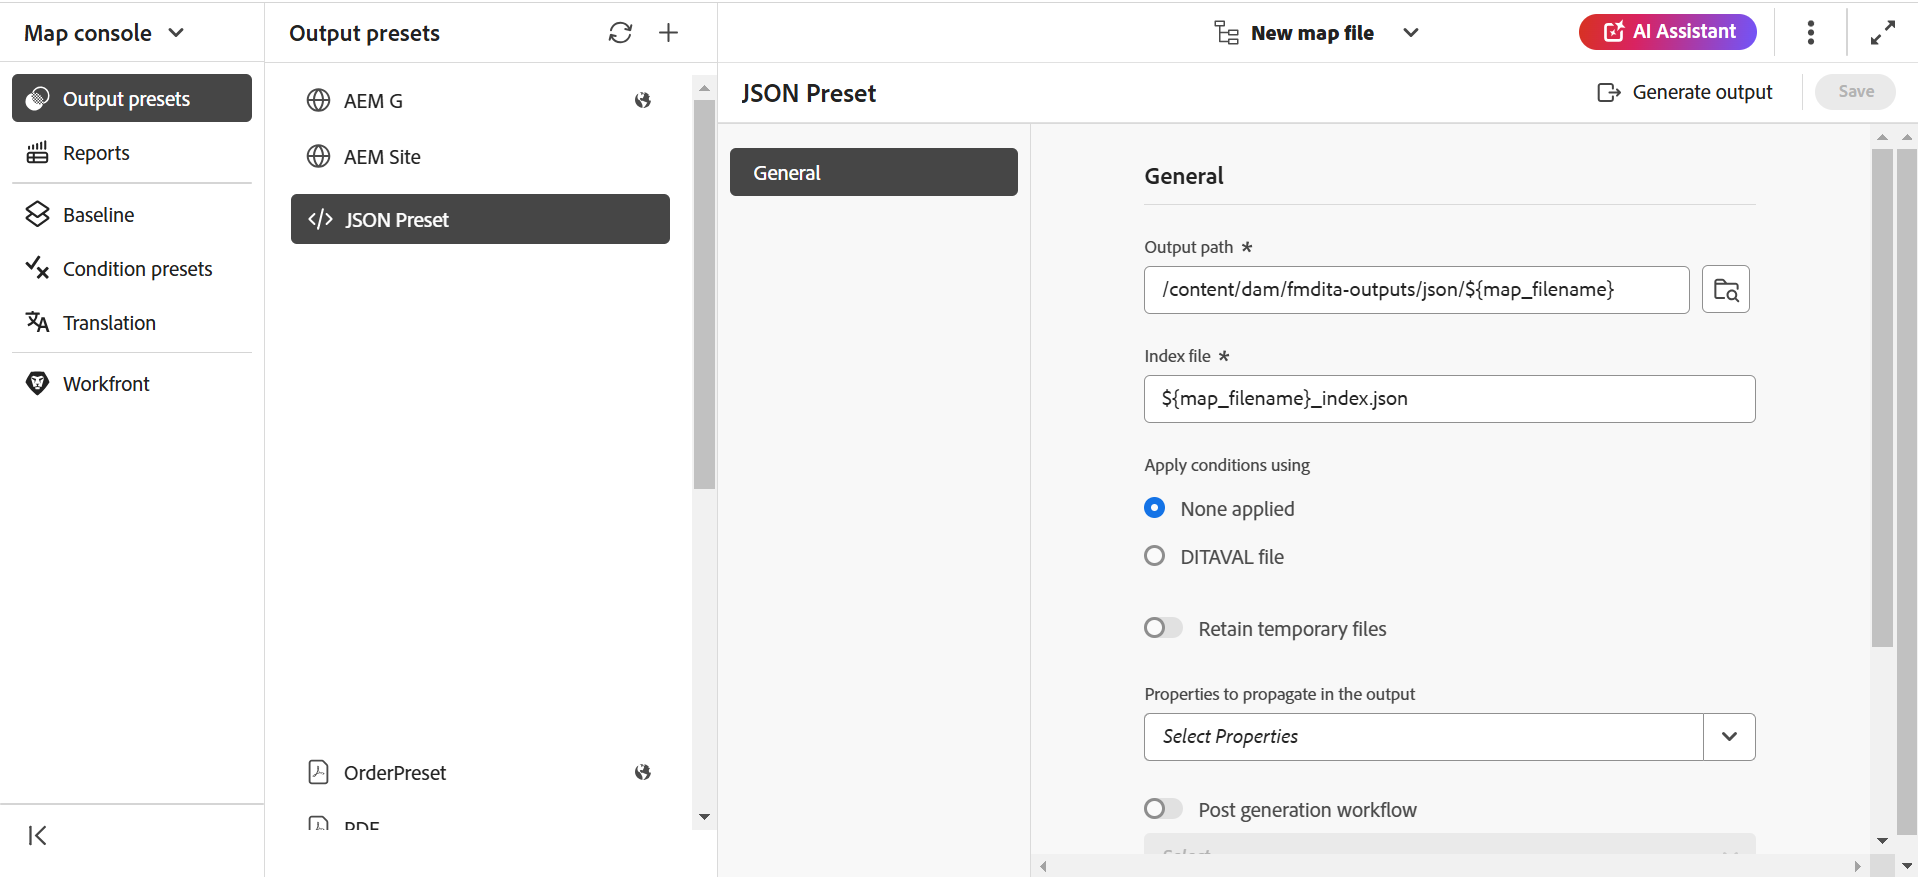
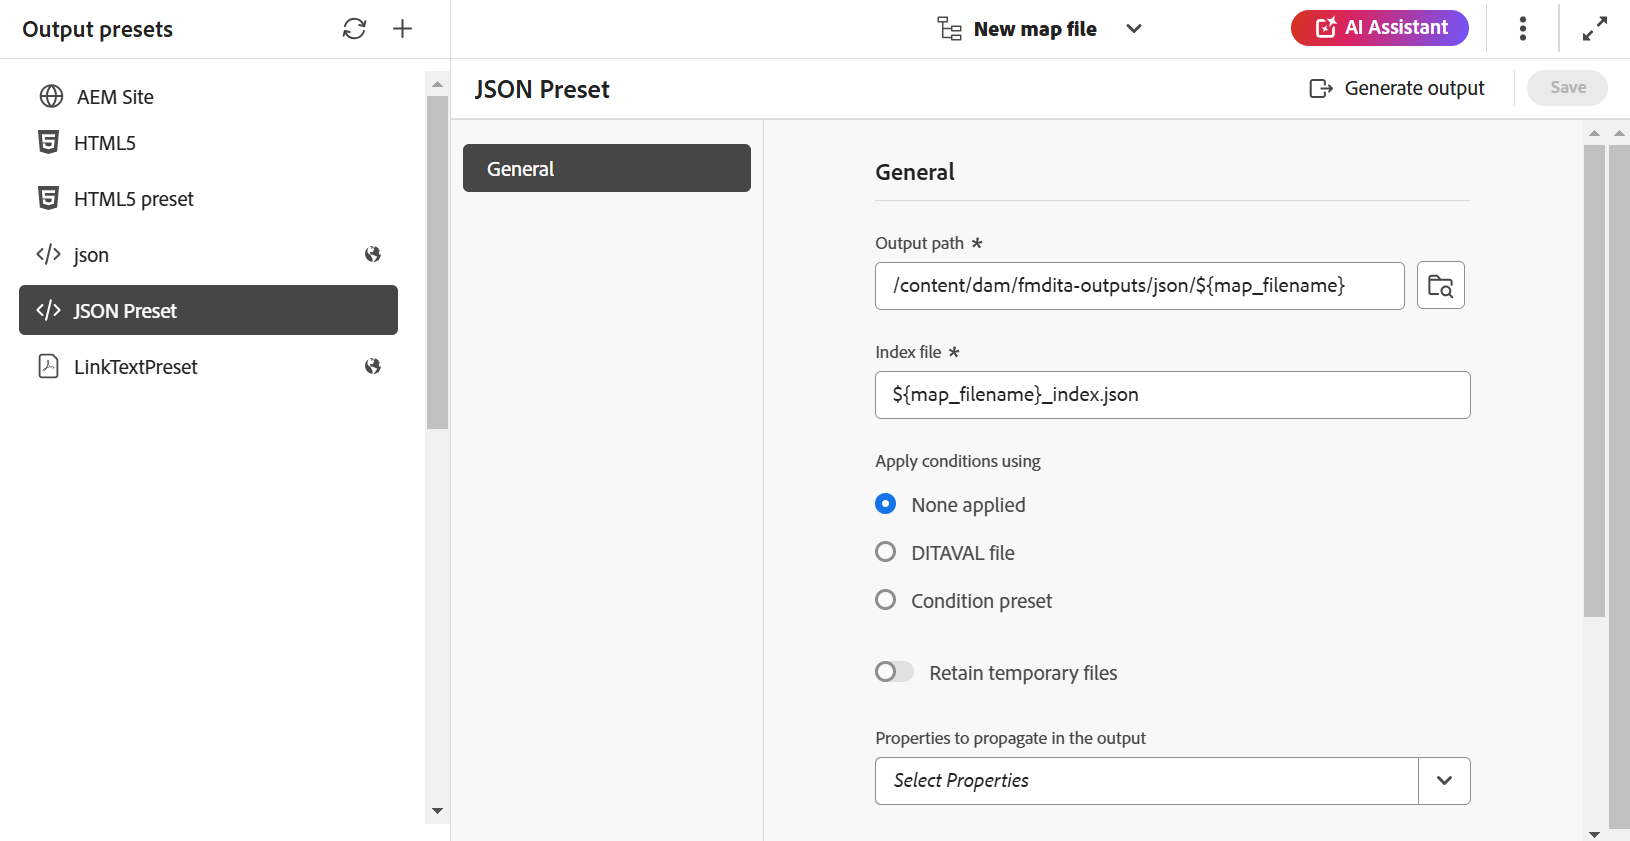
updated-json-doc

diff --git a/help/product-guide/user-guide/generate-output-json.md b/help/product-guide/user-guide/generate-output-json.md
@@ -27,20 +27,17 @@ You can create the JSON preset from the Map console using the following steps:
 
 Once the preset is created, you can configure the following preset configurations that are available under the the General tab. 
 
--   Output Path
--   Index File
--   Apply Conditions Using \(If the conditions are defined for a map\)
+-   Output path
+-   Index file
+-   Apply conditions using \(If the conditions are defined for a map\)
 -   Use Baseline \(If a baseline is created for a map\)
 -   Retain temporary files
--   Properties to Propagate in the Output
--   Post Generation Workflow
+-   Properties to propagate in the Output
+-   Post generation workflow
 
 For details, refer to [JSON configuration](#json-configuration).
 
 ![](images/json-preset-config.png){width="800" align="left"}
-
-
-
 
 ## JSON configuration
 
@@ -52,12 +49,12 @@ The following options are available for the JSON preset:
 
 | JSON options | Description |
 | --- | --- |
-| Output Path | The path within your AEM repository where the JSON output is stored. |
-| Index File | You can give a name for the index file you're creating for the JSON output. By default, it picks the DITA map's file name and adds a suffix (like `map_filename_index.json`).<br><br>You can also use variables while setting the Index File. For more details about using variables, see [Use variables for setting the Destination Path, Site Name, or File Name options](generate-output-use-variables.md#id18BUG70K05Z). |
+| Output path | The path within your AEM repository where the JSON output is stored. |
+| Index file | You can give a name for the index file you're creating for the JSON output. By default, it picks the DITA map's file name and adds a suffix (like `map_filename_index.json`).<br><br>You can also use variables while setting the Index File. For more details about using variables, see [Use variables for setting the Destination Path, Site Name, or File Name options](generate-output-use-variables.md#id18BUG70K05Z). |
 | Apply conditions using | Select one of the following options:<br><br>* **None applied**: Select this option if you do not want to apply any condition on the published output.<br>* **DITAVAL file**: Select DITAVAL file(s) to generate personalized content. You can select multiple DITAVAL files using the browse dialog or by typing file path. Use the cross icon near the file name to remove it. DITAVAL files are evaluated in the order specified, so the conditions specified in the first file take precedence over the matching conditions specified in later files. You can maintain the file order by adding or deleting files. If the DITAVAL file is moved to some other location or is deleted, it is not automatically deleted from the map dashboard. You need to update the location in case files are moved or deleted. You can hover over the file name to see the path in the AEM repository where the file is stored. You can only select DITAVAL files and an error is displayed if you have selected any other file type.<br>* **Condition preset**: Select a condition preset from the drop-down to apply a condition while publishing the output. The option is visible if you have added a condition present in the Condition Presets tab of the DITA map console. To know more about condition preset, see [Use condition presets](generate-output-use-condition-presets.md#id1825FL004PN). |
 | Use Baseline | If you have created a Baseline for the selected DITA map, select this option to specify the version that you want to publish.<br><br>See [Work with Baseline](generate-output-use-baseline-for-publishing.md#id1825FI0J0PF) for more detail. |
-| Retain temporary files | Select this option to retain the temporary files generated by DITA-OT. If you are experiencing errors while generating output through DITA-OT, select this option to retain the temporary files. You can then use those files to troubleshoot output generation errors.<br> <br>  After generating the output, select the **Download temporary files** ![download temporary files icon](images/download-temp-files-icon.png) icon to download the ZIP folder containing the temporary files. <br><br> **Note**:  If file properties are added during generation, the output temporary files also include a *metadata.xml* file containing those properties. | 
-| Properties to Propagate in the Output | Select the properties that you want to process as metadata. These properties are set from the Properties page of the DITA map or bookmap file. The properties that you select from the drop-down list are listed below the Properties field.<br><br>**Note**: You can also define custom properties and pass on the metadata to the output using DITA-OT publishing. For more details see, [Work with metadata](metadata-dita.md#id21BJ00QD0XA). |
-| Post Generation Workflow | When you choose this option, a new Post Generation Workflow drop-down list is displayed containing all workflows configured in AEM. You must select a workflow that you want to execute after completion of the output generation workflow.<br><br>**Note**: For more information about creating a custom post-output generation workflow, see _Customize post-output generation workflow_ in the Install and configure Adobe Experience Manager Guides as a Cloud Service guide. |
+| Retain temporary files | Select this option to retain the temporary files generated by DITA-OT. If you are experiencing errors while generating output through DITA-OT, select this option to retain the temporary files. You can then use those files to troubleshoot output generation errors.<br> <br>  After generating the output, select the **Download temporary files** ![download temporary files icon](images/download-temp-files-icon.svg) icon to download the ZIP folder containing the temporary files. <br><br> **Note**:  If file properties are added during generation, the output temporary files also include a *metadata.xml* file containing those properties. | 
+| Properties to propagate in the Output | Select the properties that you want to process as metadata. These properties are set from the Properties page of the DITA map or bookmap file. The properties that you select from the drop-down list are listed below the Properties field.<br><br>**Note**: You can also define custom properties and pass on the metadata to the output using DITA-OT publishing. For more details see, [Work with metadata](metadata-dita.md#id21BJ00QD0XA). |
+| Post generation workflow | When you choose this option, a new Post Generation Workflow drop-down list is displayed containing all workflows configured in AEM. You must select a workflow that you want to execute after completion of the output generation workflow.<br><br>**Note**: For more information about creating a custom post-output generation workflow, see _Customize post-output generation workflow_ in the Install and configure Adobe Experience Manager Guides as a Cloud Service guide. |
 
 **Parent topic:**[Understanding the output presets](generate-output-understand-presets.md)
